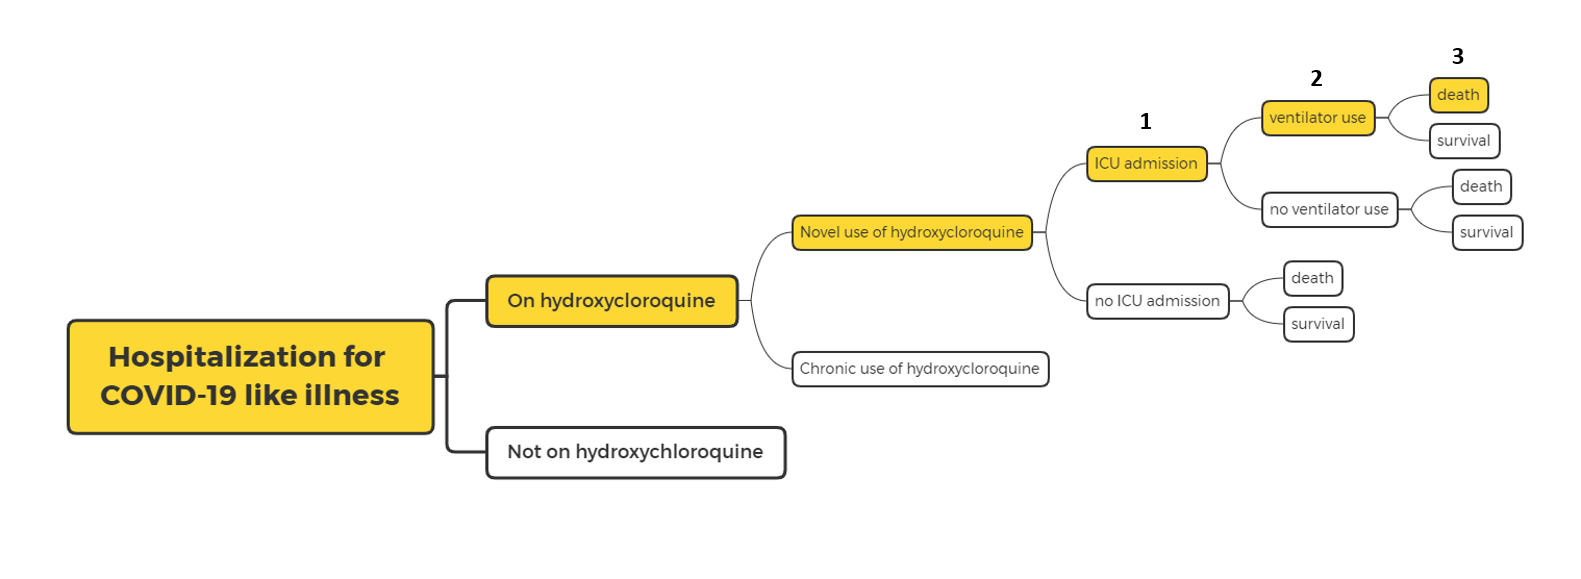
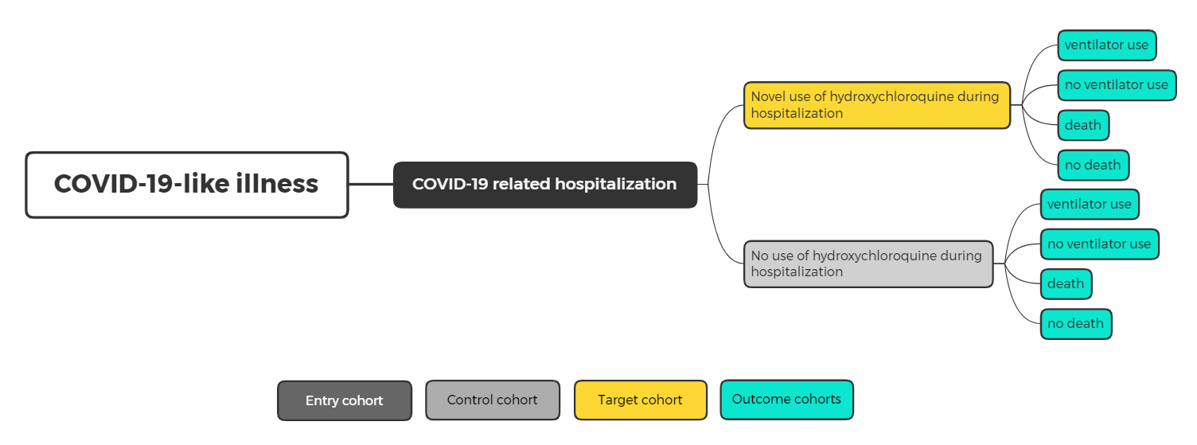
update hydroxy cohorts

Changed region(s): [[0.0, 0.3213, 0.7419, 0.964], [0.4946, 0.0584, 0.9891, 0.7888]]

diff --git a/docs/cohorts.md b/docs/cohorts.md
@@ -3,24 +3,51 @@ id: cohorts
 title: Cohorts
 ---
 
-# EHR data cohorts for evaluating effect of drugs on COVID-19 outcomes
+:::caution
+This content is preliminary and is expected to change quickly as we work with C19HCC partners to align and refine definitions.
+:::
 
-## Hydroxychloroquine cohorts and cohort pathways
+## Introduction
 
-### Prophylactic use of hydroxychloroquine in COVID-exposed individuals
+The cohorts described here are intended to support an initial use case of produced federated observational studies on EHR data to regarding treatment options and outcomes of COVID-19.
 
-Does prophylactic hydroxychloroquine have a protective effect for individuals exposed to SARS-CoV2?
 
-### Novel use of hydroxycloroquine for COVID-19 treatment
+### EHR data-based cohorts to identify COVID-19 populations
+
+
+| Cohort | Description | Related EHR Data Domains and Elements |
+| --- |--- | --- |
+| [Influenza-like illness]() | Defines how to identify individuals who present with COVID-19 like illness without a confirmation of exposure to SARS-CoV-2 or a definitive COVID-19 diagnosis. | `Condition`, `Encounter.admitting_diagnosis`, `Encounter.chief_complaint`, `Encounter.discharge_diagnosis`,  `Encounter.diagnosis` |
+| [COVID-19 exposure]() | Defines how to identify individuals who where definitely or possibly exposed to SARS-CoV-2. | `Condition`, `Encounter.admitting_diagnosis`, `Encounter.chief_complaint`, `Encounter.discharge_diagnosis`, `Encounter.diagnosis` |
+| [Suspected COVID-19 infection]() | Defines how to identify individuals for whom there is a suspicion of COVID-19 infection. | `Condition`, `Encounter.admitting_diagnosis`, `Encounter.chief_complaint`, `Encounter.discharge_diagnosis`, `Encounter.diagnosis`, `Laboratory_test.code`, `Laboratory_test.result`, <mark>`Order.code` (for pending lab tests) ??</mark> |
+| [COVID-19 infection confirmed]() | Defines how to identify individuals with a definitive diagnosis of COVID-19. | `Condition`, `Encounter.admitting_diagnosis`, `Encounter.chief_complaint`, `Encounter.discharge_diagnosis`, `Encounter.diagnosis`, `Laboratory_test.code`, `Laboratory_test.result` |
+
+### EHR data-based cohorts to assess COVID-19 outcomes
+
+| Cohort | Description | Related EHR Data Elements |
+| --- | --- | --- |
+| <mark>TODO: </mark>[High-Flow Oxygen therapy]() | Defines how to identify individuals who are on high-flow oxygen therapy, which can be an indicator of ICU-level care. | `Procedure.code`, `Procedure.start_datetime`, <mark>`ICU flowsheet data`</mark> |
+| <mark>TODO: </mark>[Mechanical Ventilation]()        | Defines how to identify individuals who received mechanical ventilation. | `procedure.code`, <mark>completed orders, ICU flowsheet data?</mark>
+<mark>TODO: </mark>[Death during hospitalization]() | Defines how to identify individuals who expired during a hospitalization. |
+| <mark>TODO: </mark>[ICU level of care]() | Defines how to identify patients receiving ICU-level of care |
+| <mark>TODO: </mark>[Death within 6 weeks of COVID-19 confirmation]() |
+
+
+### EHR data cohorts for evaluating effect of drugs on COVID-19 outcomes
+
+#### Hydroxychloroquine
+
+##### Novel use of hydroxycloroquine for COVID-19 treatment
 
 For patients with new COVID-19 infection, how does the addition of hydroxychloroquine affect the development of severe symptoms, hospitalization, ICU admission/intubation/mechanical ventilation, or death?
 
 ![hydroxycholoroquine cohort pathways](/static/img/hydroxy_cohorts.png)
 
-**Target cohort**:
-* [COVID-19-like illness adult hospitalizations](c-19-adult-hosp) and [New user of hydroxycloriquine](c-19-new-hydroxy)
+| Entry cohort | Choose one of three entry cohorts[Adult Hospitalization]() AND [COVID-19 like illness]() AND [] OR [Adult Hospitalization]() AND [Suspected COVID-19 Infection]() OR [Adult Hospitalization]() AND [COVID-19 infection confirmed]()|
+| --- | --- |
 
-**Outcome cohorts**:
-* [COVID-19-like illness adult hospitalizations](c-19-adult-hosp) and [New user of hydroxycloriquine]() and [ICU admission]()
-* [COVID-19-like illness adult hospitalizations](c-19-adult-hosp) and [New user of hydroxycloriquine]() and [ICU admission]() and [Ventilator use]()
-* [COVID-19-like illness adult hospitalizations](c-19-adult-hosp) and [New user of hydroxycloriquine]() and [ICU admission]() and [Ventilator use]() and [Death]()
+| Cohort | Outcome: Death | Outcome: No Death
+| --- | --- | --- |
+| Target: Entry cohort AND [Novel use of hydroxychloroquine during hospitalization]() | Target Cohort AND [Death during hospitalization]() | Target Cohort AND NOT [Death during hospitalization]() |
+| Control: Entry cohort AND NOT [Novel use of hydroxychloroquine during hospitalization]() | Control Cohort AND [Death during hospitalization]() | Control Cohort AND NOT [Death during hospitalization]() |
+

diff --git a/docs/c-19-new-hydroxy.md b/docs/c-19-new-hydroxy.md
@@ -3,6 +3,9 @@ id: c-19-new-hydroxy
 title: New user of hydroxychloroquine
 ---
 
+:::caution
+This content is preliminary and is expected to change quickly as we work with C19HCC partners to align and refine definitions.
+::: 
 
 **Cohort name**: New user of hydroxychloroquine
 
@@ -24,13 +27,20 @@ title: New user of hydroxychloroquine
 Patients meeting meeting _all_ of the following:
 
 * **Drug exposure to hydroxychloroquine**
-    * `med_exposure` :
-        * `code` in in [CH19HCC Hydroxychloroquine Ingredient]()
+    * At least 1 occurrence of a `med_exposure` meeting all of the following:
+        * `code` in in [CH19HCC Hydroxychloroquine]()
         * `start_date` is on or after index date
 
 ### Exclusion Criteria
 
 Patients meeting meeting _any_ of the following:
+
+* **No previous exposure to hydroxychloroquine**
+    * Exactly 0 occurrences of a `med_exposure` meeting all of the following:
+        * `code` in in [CH19HCC Hydroxychloroquine]() 
+        * `start_date` is before index date
+        * 
+    _Note_: `med_exposure` includes medications in the admission medication list at admission or on outpatient medication list prior to admission
 
 * **Condition suggesting prior hydroxychloroquine use**:
     * **Diagnosis of systemic lupus erythematosus (`Lupus_confirmed`)**:

diff --git a/docs/c-19-adult-hosp.md b/docs/c-19-adult-hosp.md
@@ -2,7 +2,9 @@
 id: c-19-adult-hosp
 title: COVID-19-like illness adult hospitalizations
 ---
-
+:::caution
+This content is preliminary and is expected to change quickly as we work with C19HCC partners to align and refine definitions.
+:::
 
 **Cohort name**: COVID-19-like illness adult hospitalizations
 
